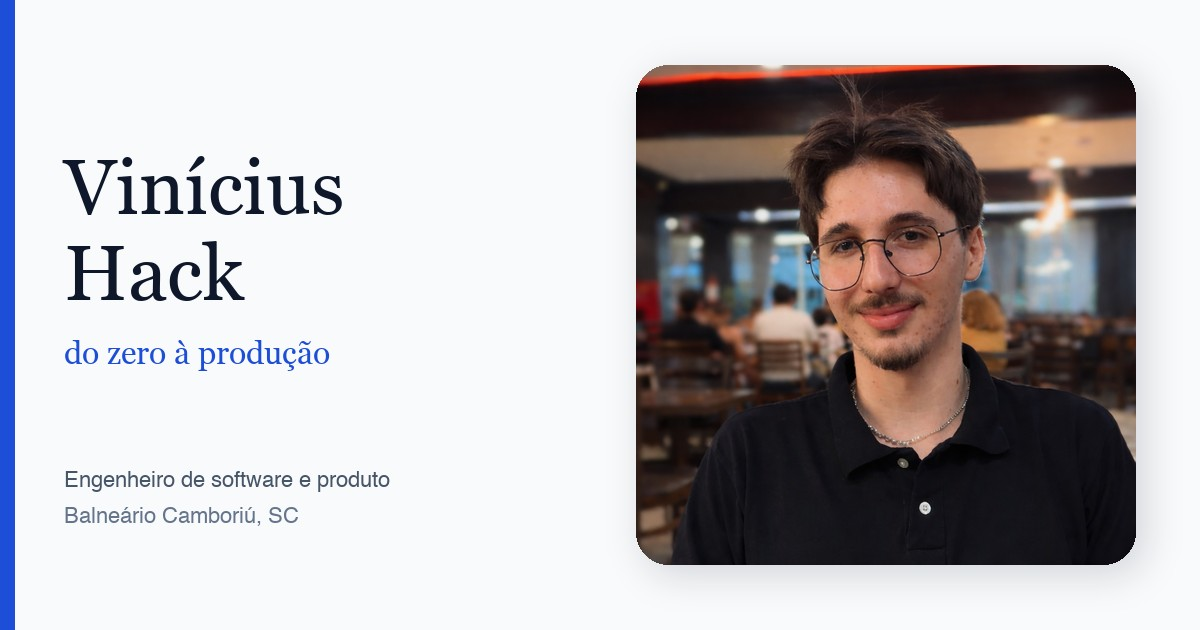
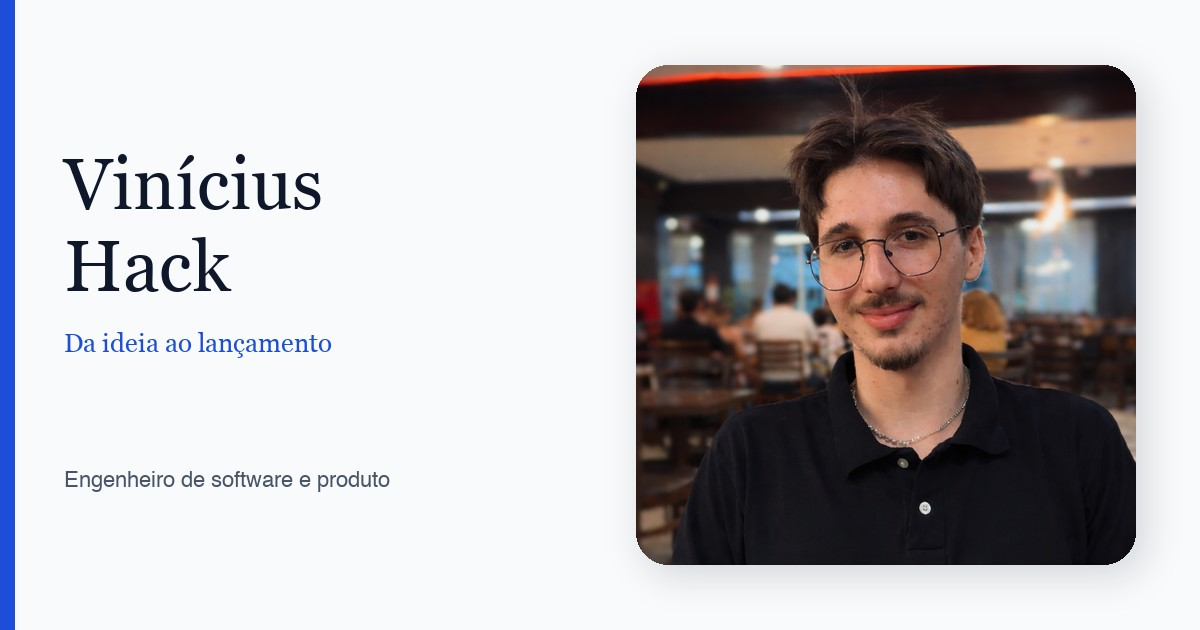
Align the search snippet with the live homepage copy.

Changed region(s): [[0.0617, 0.2413, 0.3083, 0.4825], [0.0308, 0.5127, 0.2775, 0.6032], [0.0617, 0.7841, 0.2467, 0.8444]]

diff --git a/src/components/versions/VersionChrome.tsx b/src/components/versions/VersionChrome.tsx
@@ -4,6 +4,12 @@ import { useI18n } from "../../lib/i18n";
 import { isIndexedPath, localizedPath } from "../../lib/locale";
 import { versions, type VersionId } from "../../lib/versions";
 
+function langClass(active: boolean) {
+  return active
+    ? "opacity-100 underline decoration-current/55 underline-offset-[5px]"
+    : "opacity-40 transition-opacity hover:opacity-75";
+}
+
 export function LangSwitch({ className = "" }: { className?: string }) {
   const { copy, locale, setLocale } = useI18n();
   const pathname = useRouterState({ select: (state) => state.location.pathname });
@@ -17,21 +23,43 @@ export function LangSwitch({ className = "" }: { className?: string }) {
     >
       {indexed ? (
         <>
-          <a href={localizedPath(pathname, "pt-BR")} aria-current={locale === "pt-BR" ? "true" : undefined}>
+          <a
+            href={localizedPath(pathname, "pt-BR")}
+            aria-current={locale === "pt-BR" ? "true" : undefined}
+            className={langClass(locale === "pt-BR")}
+          >
             {copy.lang.pt}
           </a>
-          <span aria-hidden>/</span>
-          <a href={localizedPath(pathname, "en")} aria-current={locale === "en" ? "true" : undefined}>
+          <span aria-hidden className="opacity-30">
+            /
+          </span>
+          <a
+            href={localizedPath(pathname, "en")}
+            aria-current={locale === "en" ? "true" : undefined}
+            className={langClass(locale === "en")}
+          >
             {copy.lang.en}
           </a>
         </>
       ) : (
         <>
-          <button type="button" aria-pressed={locale === "pt-BR"} onClick={() => setLocale("pt-BR")}>
+          <button
+            type="button"
+            aria-pressed={locale === "pt-BR"}
+            onClick={() => setLocale("pt-BR")}
+            className={langClass(locale === "pt-BR")}
+          >
             {copy.lang.pt}
           </button>
-          <span aria-hidden>/</span>
-          <button type="button" aria-pressed={locale === "en"} onClick={() => setLocale("en")}>
+          <span aria-hidden className="opacity-30">
+            /
+          </span>
+          <button
+            type="button"
+            aria-pressed={locale === "en"}
+            onClick={() => setLocale("en")}
+            className={langClass(locale === "en")}
+          >
             {copy.lang.en}
           </button>
         </>

diff --git a/src/lib/copy.ts b/src/lib/copy.ts
@@ -145,7 +145,7 @@ export const copies: Record<Locale, Copy> = {
     meta: {
       title: "Vinícius Hack — engenheiro de software e produto",
       description:
-        "Engenheiro de software e produto em Balneário Camboriú. Constrói apps e plataformas do zero à produção, com IA no ciclo e conversa direta com o negócio.",
+        "Da ideia ao lançamento — software que as pessoas usam. Desenvolvedor desde 2021, cria apps próprios e para clientes, com conversa direta com o negócio.",
     },
     skip: "Ir para o conteúdo",
     nav: {
@@ -404,7 +404,7 @@ export const copies: Record<Locale, Copy> = {
     meta: {
       title: "Vinícius Hack — software and product engineer",
       description:
-        "Software and product engineer in Balneário Camboriú. Builds apps and platforms from zero to production, with AI in the loop and a direct line to the business.",
+        "From idea to launch — software people actually use. A hired developer since 2021 who also builds his own apps and freelance work.",
     },
     skip: "Skip to content",
     nav: {

diff --git a/src/components/versions/BrutalPage.tsx b/src/components/versions/BrutalPage.tsx
@@ -22,7 +22,7 @@ export function BrutalPage() {
             </h1>
             <p className="mt-2 text-sm font-semibold uppercase">{copy.studio.role}</p>
           </div>
-          <LangSwitch className="text-[12px] font-bold uppercase [&_button[aria-pressed=true]]:bg-black [&_button[aria-pressed=true]]:px-2 [&_button[aria-pressed=true]]:text-[#fff46a]" />
+          <LangSwitch className="text-[12px] font-bold uppercase [&_a[aria-current=true]]:bg-black [&_a[aria-current=true]]:px-2 [&_a[aria-current=true]]:text-[#fff46a] [&_button[aria-pressed=true]]:bg-black [&_button[aria-pressed=true]]:px-2 [&_button[aria-pressed=true]]:text-[#fff46a]" />
         </header>
 
         <div className="mt-4 border-[3px] border-black bg-white px-4 py-3 shadow-[6px_6px_0_#111]">

diff --git a/src/components/versions/StudioPage.tsx b/src/components/versions/StudioPage.tsx
@@ -201,7 +201,7 @@ export function StudioPage() {
               label={dark ? copy.studio.themeToLight : copy.studio.themeToDark}
               onToggle={toggleTheme}
             />
-            <LangSwitch className="text-[11px] font-medium uppercase tracking-[0.12em] [&_button]:cursor-pointer [&_button[aria-pressed=true]]:text-[var(--s-accent)]" />
+            <LangSwitch className="text-[11px] font-medium uppercase tracking-[0.12em] [&_a]:cursor-pointer [&_button]:cursor-pointer [&_a[aria-current=true]]:text-[var(--s-accent)] [&_button[aria-pressed=true]]:text-[var(--s-accent)]" />
           </div>
         </div>
       </motion.header>

diff --git a/src/components/versions/VersoesPage.tsx b/src/components/versions/VersoesPage.tsx
@@ -26,7 +26,7 @@ export function VersoesPage() {
             <h1 className="mt-3 text-4xl font-semibold tracking-tight md:text-6xl">{copy.versions.title}</h1>
             <p className="mt-4 max-w-xl text-[#bdbdbd]">{copy.versions.lead}</p>
           </div>
-          <LangSwitch className="font-mono text-[12px] [&_button[aria-pressed=true]]:text-white" />
+          <LangSwitch className="font-mono text-[12px] [&_a[aria-current=true]]:text-white [&_button[aria-pressed=true]]:text-white" />
         </div>
 
         <ul className="mt-12 grid gap-4 md:grid-cols-2">

diff --git a/src/components/versions/NoirPage.tsx b/src/components/versions/NoirPage.tsx
@@ -40,7 +40,7 @@ export function NoirPage() {
             ))}
           </div>
           <div className="mt-10 space-y-4 font-mono text-[11px] text-[#8892b0]">
-            <LangSwitch className="text-[#ccd6f6] [&_button[aria-pressed=true]]:text-[#64ffda]" />
+            <LangSwitch className="text-[#ccd6f6] [&_a[aria-current=true]]:text-[#64ffda] [&_button[aria-pressed=true]]:text-[#64ffda]" />
             <VersionSwitch current="noir" />
           </div>
         </aside>

diff --git a/src/components/site/Header.tsx b/src/components/site/Header.tsx
@@ -51,7 +51,7 @@ export function Header() {
               {copy.nav.versions}
             </a>
           </nav>
-          <LangSwitch className="font-mono text-[11px] tracking-[0.14em] [&_a[aria-current=true]]:text-ink [&_a]:text-muted [&_a]:transition-colors [&_a]:hover:text-ink" />
+          <LangSwitch className="font-mono text-[11px] tracking-[0.14em] [&_a[aria-current=true]]:text-ink" />
         </div>
       </div>
     </header>
